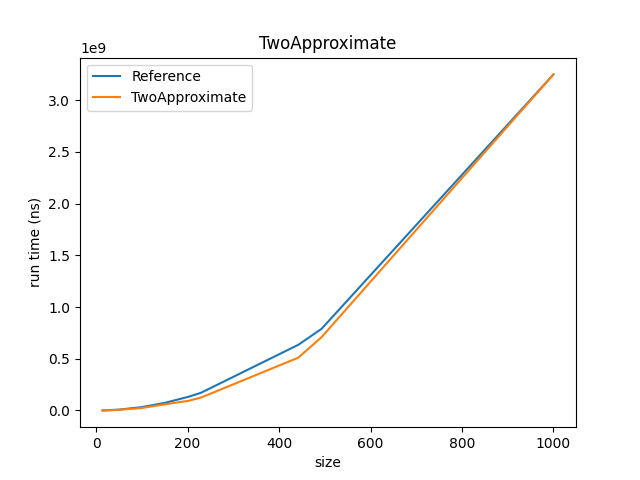
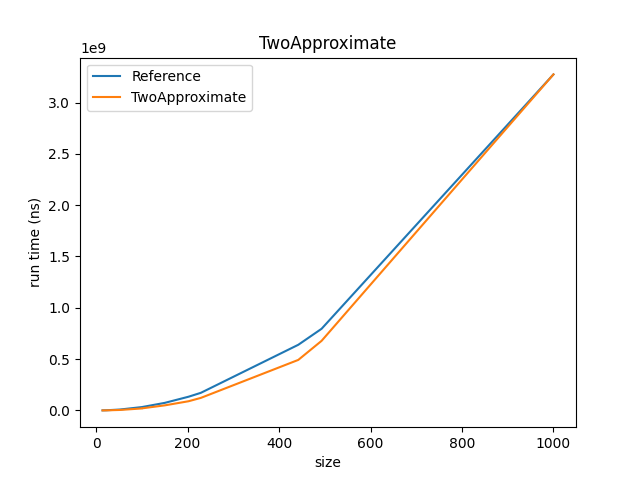
Added Results and Plots. Added run times

diff --git a/Lab2/two_approximate.py b/Lab2/two_approximate.py
@@ -1,0 +1,70 @@
+from data_structures.unionfind import UnionFind  # type: ignore
+from data_structures.graph import Graph  # type: ignore
+from data_structures.Complete_graphs import *  # type: ignore
+
+
+def Efficient_Kruskal(G: CompleteGraph):  # type: ignore
+    """
+    This is a function that implements the Kruskal's algorithm
+    implemented using the "Disjoint Set Union" data structure,
+    which allows to achieve the time complexity of O(M * log(N)).
+    """
+    A = Graph()
+    # Not an array because we need to store the weight associated to the edge
+
+    U = UnionFind()
+    U.Initialize(G.getNodes())
+
+    edges = G.getAllEdges()
+    sort_edges = dict(
+        sorted(edges.items(), key=lambda item: item[1])
+    )  # In nondecrising order of weight
+    sort_edges_keys = sort_edges.keys()  # Getting the keys
+
+    for edge in sort_edges_keys:
+        (v, w) = edge
+        if v == w:
+            continue
+        if U.Find(v) != U.Find(w):  # No path v-w in A
+            A.addEdge(
+                edge, edges.get(edge)
+            )  # Adding weight in order to print it and test it later
+            U.Union(v, w)
+    A.orderEdges()
+    return A
+
+
+def DFS_Traversal(graph: Graph, visited=[], node=None):
+    if node is None:
+        node = graph.getNodes()[0]
+    if node not in visited:
+        visited.append(node)
+        for adj in graph.getAdjacentNodes(node):
+            DFS_Traversal(graph, visited, adj)
+
+
+def getTotalWeight(Graph: CompleteGraph, cycle: List[int]):  # type: ignore
+    total_weight: float = 0
+    node1 = cycle[0]
+    for node2 in cycle[1:]:
+
+        total_weight += Graph.getDistance(node1, node2)
+        node1 = node2
+
+    return total_weight
+
+
+def TwoApproximate(Graph):
+    # Getting the MST
+    Result = Efficient_Kruskal(Graph)
+   
+    # List containing the final set of nodes
+    Cycle: List[int] = []
+
+    # Preorder
+    DFS_Traversal(Result, Cycle)
+
+    # Adding the starting node to the end in order to complete the cycle
+    Cycle.append(Result.getNodes()[0])
+
+    return getTotalWeight(Graph, Cycle)  # Obtaining the total weight and return it

diff --git a/Lab2/main.py b/Lab2/main.py
@@ -11,7 +11,7 @@ from nearest_neighbour import nearestNeighbour
 from two_approximate import TwoApproximate
 from cheapest_insertion import cheapest_insertion
 from farthest_insertion import farthest_insertion
-from farthest_insertion_variant import farthest_insertion as farthest_ins_variant
+from farthest_insertion_variant import farthest_insertion_variant
 
 Optimal_solutions: Dict[str, float] = {
     "burma14.tsp": 3323,
@@ -33,7 +33,7 @@ Optimal_solutions: Dict[str, float] = {
 def measureTime(Graphs, Function, Weights, Time):
     print(Function)
     temp_time = 0  # List of times
-    iterations = 1  # Iterations
+    iterations = 10  # Iterations
     current: int = 1  # Progress bar's counter
     start_time_bar = perf_counter_ns()
     end_time = 0
@@ -115,7 +115,7 @@ def functionExecution(
 def pyplot(graphs_sizes, times_Function, Function):
     ################## pyplot ##################
        
-    C = int(times_Function[-1]/graphs_sizes[-1]**2)
+    C = int(times_Function[-1]/graphs_sizes[-1]**2) # Takes the last elements as reference
     reference = [n ** 2 *  C for n in graphs_sizes]
     plt.plot(graphs_sizes, reference)
     plt.plot(graphs_sizes, times_Function)
@@ -144,7 +144,7 @@ def main():
     )
     functionExecution(CompGraphs, optimal_sol, cheapest_insertion, "RESULTS/CHEAPEST_INSERTION.csv")
     functionExecution(CompGraphs, optimal_sol, farthest_insertion, "RESULTS/FARTHEST_INSERTION.csv")
-    functionExecution(CompGraphs, optimal_sol, farthest_ins_variant, "RESULTS/FARTHEST_INSERTION_VARIANT.csv")
+    functionExecution(CompGraphs, optimal_sol, farthest_insertion_variant, "RESULTS/FARTHEST_INSERTION_VARIANT.csv")
     
 
     

diff --git a/Lab2/farthest_insertion_variant.py b/Lab2/farthest_insertion_variant.py
@@ -114,7 +114,7 @@ def obtainingPath(path: List[Tuple[int, int]], graph: Complete_graphs):  # type:
     return Cycle + [new_graph.getNodes()[0]]
 
 
-def farthest_insertion(graph: CompleteGraph):  # type: ignore
+def farthest_insertion_variant(graph: CompleteGraph):  # type: ignore
 
     final_path: List[Tuple[int, int]] = []  # Will contain the final path
 
